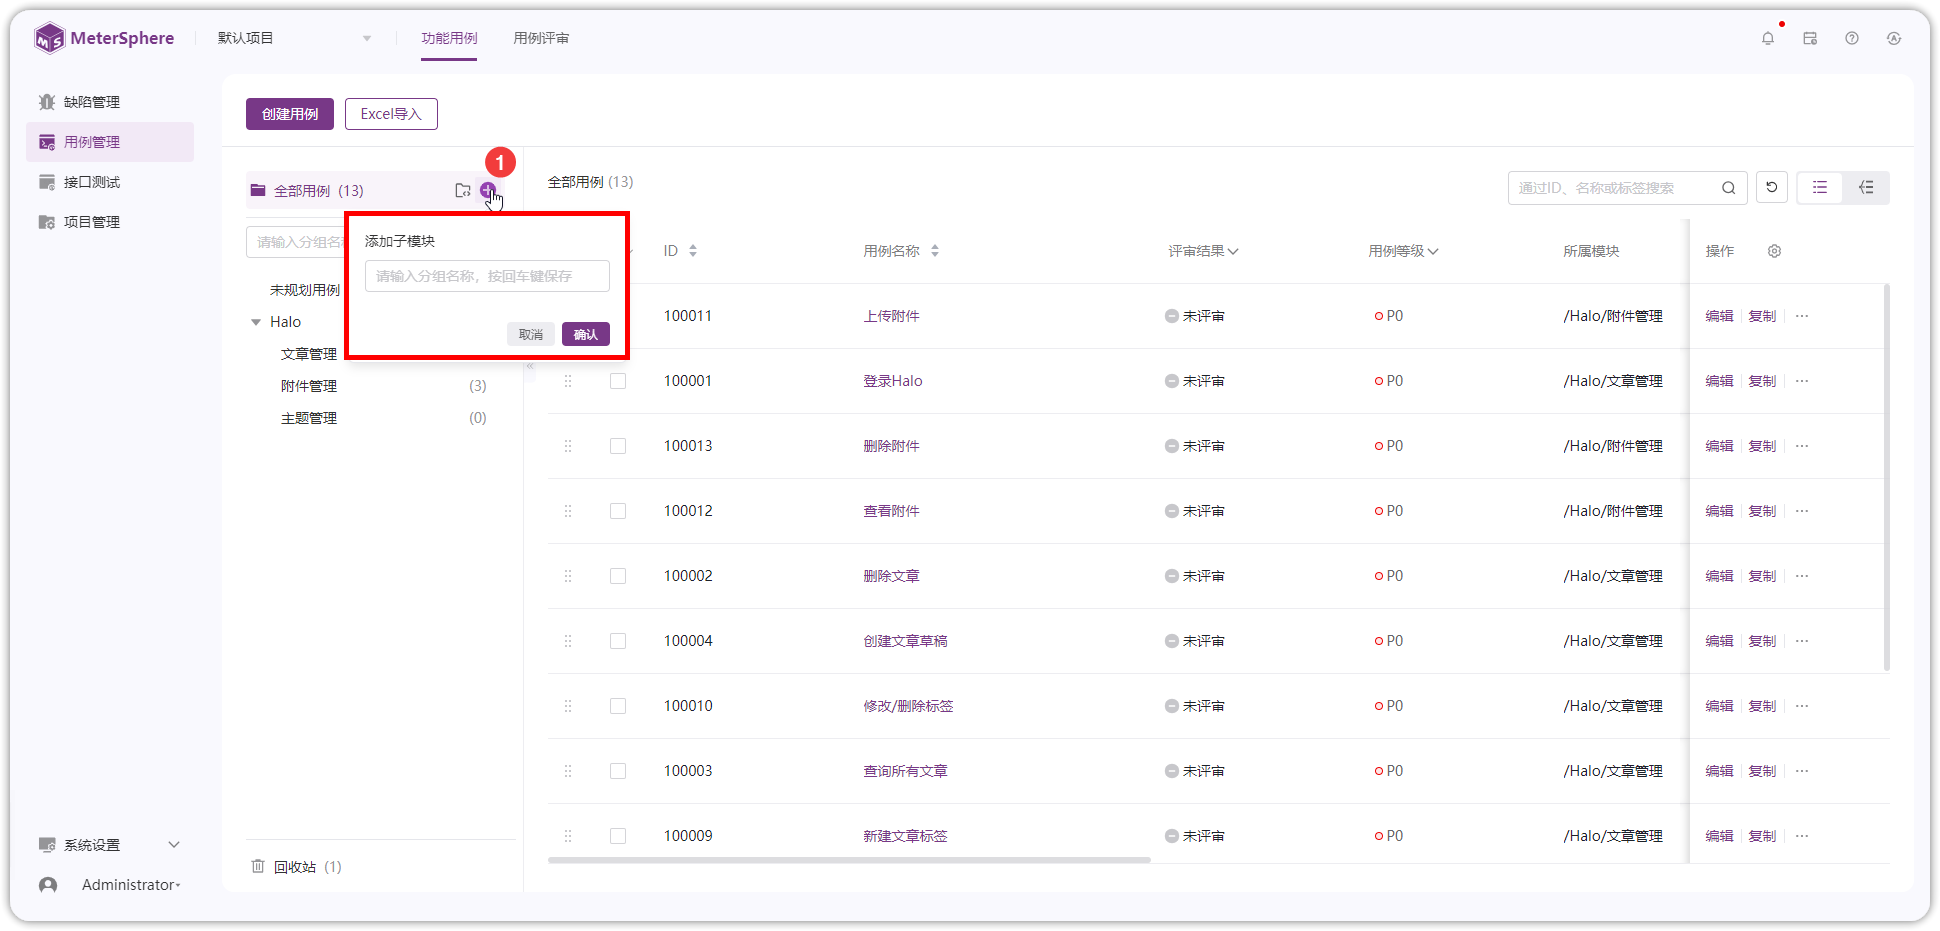
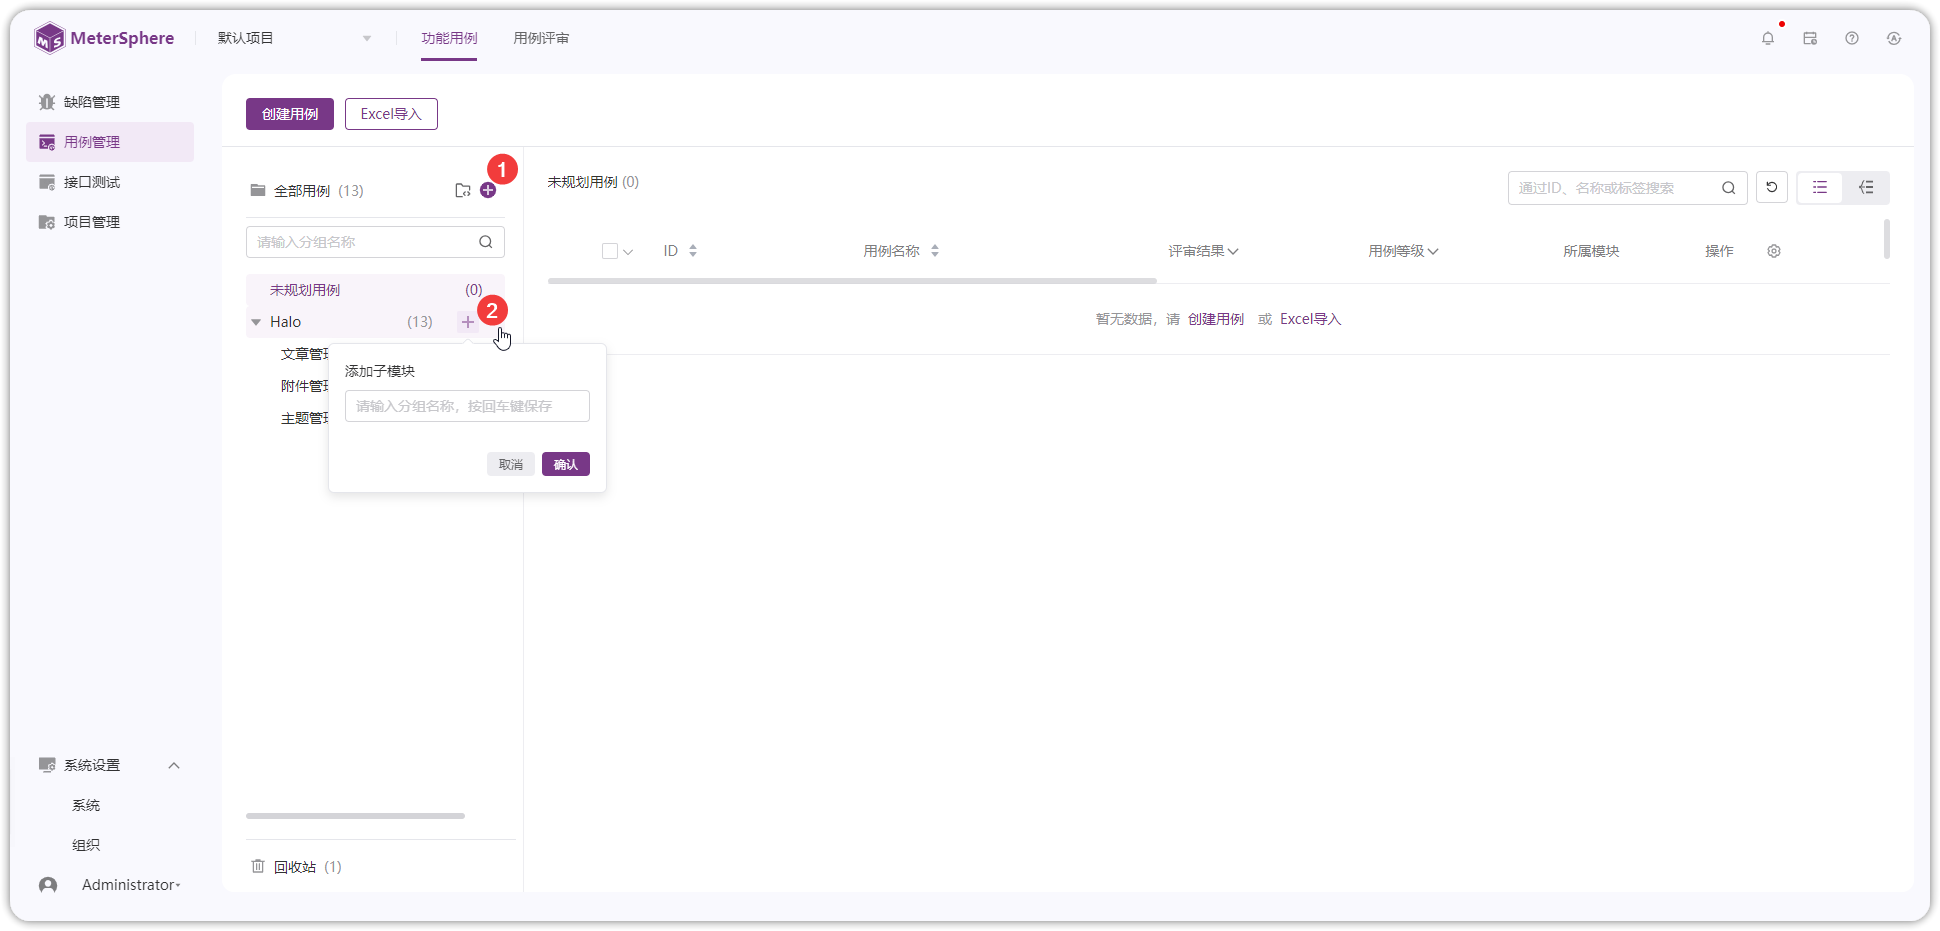
docs: 通用功能优化

diff --git a/docs/user_manual/general.md b/docs/user_manual/general.md
@@ -4,20 +4,23 @@ description: MeterSphere 一站式开源持续测试平台官方文档。MeterSp
 
 ## 1 切换项目
 !!! ms-abstract ""
-    MeterSphere 中的缺陷管理、用例管理、接口测试、UI测试、性能测试等资源均使用项目进行隔离，用户需要操作另一个项目中的资源时需要先进行项目切换。<br>
-    点击左上方的项目下拉菜单，菜单中列出了当前登录用户已被授权的项目列表，点击某个项目进行切换。
+    如下图，点击左上方的项目下拉菜单，下拉选择某个项目进行切换。
+
+!!! ms-abstract "说明"
+    系统中的缺陷管理、用例管理、接口测试等资源均使用项目进行隔离。
+
 ![!切换项目](../img/general/切换项目.png){ width="900px" }
 
 ## 2 模块树管理
-!!! ms-abstract ""
-    系统提供模块树管理，可根据不用功能创建不同的模块，并可根据各功能依赖关系设置子模块。该部分以【用例管理】下模块树相关操作举例。
 
-!!! ms-abstract "注意"
+!!! ms-abstract "说明"
     系统默认模块【未规划用例】不允许创建子模块。
 
 ### 2.1 添加子模块
+
 !!! ms-abstract ""
-    选中模块树列表【全部用例】，点击【+】号按钮在模块总目录下创建子模块。选中任意上级模块即可在该模块下创建子模块，模块树最多支持 8 层的树状结构。
+    - 序号1：在根目录下添加子模块。<br>
+    - 序号2：在当前目录下添加子模块。
 ![!添加子模块](../img/general/添加子模块.png){ width="900px" }
 
 ### 2.2 模块操作
@@ -25,11 +28,11 @@ description: MeterSphere 一站式开源持续测试平台官方文档。MeterSp
 ![!模块操作](../img/general/模块操作1.png){ width="900px" }
     
 !!! ms-abstract "操作说明"
-    - 【重命名】点击模块名称右侧【...】按钮，下拉可选择重命名模块名称。
+    - 【重命名】点击模块名称右侧【...】按钮，下拉点击【重命名】，输入新名称后点击确认。
     - 【删除】点击模块名称右侧【...】按钮，可删除该模块和其所有子模块。删除后，此节点下的所有资源都会被删除。
-    - 【收起/展开】操作，当模块下存在子模块时出现，可点击【收起/展开】该模块下的所有子模块。
-    - 【添加子模块】鼠标悬停在要操作的模块时出现，点击可以在该模块下添加子模块。
-    - 【模块搜索】在【全部用例】下方搜索框中输入模块名称可以按模块搜索。
+    - 【收起/展开】当模块下存在子模块时出现，可点击【收起/展开】该模块下的所有子模块。
+    - 【添加子模块】鼠标悬停在要操作的模块，出现【+】号后，点击添加子模块。
+    - 【模块搜索】在【全部用例】下方搜索框中输入模块名称进行模糊搜索。
 
 !!! ms-abstract ""
     模块树还支持鼠标拖拽操作，用户可以根据需求调整模块顺序及其层级关系。
@@ -40,138 +43,88 @@ description: MeterSphere 一站式开源持续测试平台官方文档。MeterSp
 
 ### 3.1 批量操作
 !!! ms-abstract ""
-    勾选复选框，在列表也下方选择【编辑】、【移动】、【复制】、【添加需求】、【关联需求】、【删除】等批量操作。
+    勾选复选框，如下图进行批量操作。
 ![!批量操作](../img/general/批量操作.png){ width="900px" }
 
 ### 3.2 全选操作
 !!! ms-abstract ""
-    点击列表表头行复选框右侧【V】下拉可选【全选当前页】和【全选所有页】两个全选操作。
+    点击列表表头行复选框右侧【V】，选择【全选当前页】或【全选所有页】进行批量操作。
 ![!全选操作](../img/general/全选操作.png){ width="900px" }
 
 ### 3.3 查询操作
-!!! ms-abstract ""
-    列表页右上方可按照【ID】、【名称】、【标签】快速搜索。
 ![!查询操作](../img/general/查询操作.png){ width="900px" }
 
 ### 3.4 表格设置
+!!! ms-abstract "说明"
+    表格设置跟随个人账号持久化。
+
 !!! ms-abstract ""
-    点击列表页表头行最后一列【设置】按钮，可自定义进行【模式设置】、【每页显示数量】、【显示子目录】、【表头设置】等设置。
+    - 模式设置：设置详情页展开方式。
+        - 抽屉：以抽屉形式打开新页面
+        - 新窗口：以新开网页打开新页面
+    - 每页显示数量：设置每页展示条数。
+    - 表头设置：
+        - 设置是否展示在列表。
+        - 调整列表字段展示顺序。
 ![!表格设置](../img/general/表格设置.png){ width="900px" }
 
 ### 3.5 表头快捷排序
 !!! ms-abstract ""
-    点击表头某字段上下排序按钮，可实现【增序】、【降序】、【默认】三种快捷排序功能。
 ![!表头快捷排序](../img/general/表头快捷排序.png){ width="900px" }
 
 ### 3.6 列表排序
 !!! ms-abstract ""
-    鼠标按住列表行左侧【∷】图标，可在列表行上下拖动实现自定义排序功能。
+    鼠标按住列表行左侧【∷】图标，在列表行上下拖动完成自定义排序。
 ![!列表排序](../img/general/列表排序.png){ width="900px" }
 
 ### 3.7 表头快捷筛选
 !!! ms-abstract ""
-    点击列表某表头字段右侧【V】下拉实现表头快捷筛选。
+    点击列表某表头字段右侧【V】下拉完成表头快捷筛选。
 ![!表头快捷筛选](../img/general/表头快捷筛选.png){ width="900px" }
 
 ### 3.8 列表内快捷修改
 !!! ms-abstract ""
-    鼠标在列表字段悬停可以显示【✎】按钮或者【下拉选项】，可实现列表内快捷修改。
+    鼠标在列表字段悬停可显示【✎】按钮或【下拉选项】，完成列表内快捷修改。
 ![!列表内快捷修改](../img/general/列表内快捷修改.png){ width="900px" }
 
 ### 3.9 调整列表宽度
 !!! ms-abstract ""
-    鼠标悬停在表头字段左侧空白处，出现【┤├】按钮，左右拖动可以调整列表宽度。
+    鼠标悬停在表头字段左侧空白处，出现【┤├】按钮，左右拖动调整列表宽度。
 ![!调整列表宽度](../img/general/调整列表宽度.png){ width="900px" }
 
 ## 4 回收站
 !!! ms-abstract ""
-    列表页删除用例后，用例将放入回收站，点击模块下方【回收站】按钮，可在回收站内进行数据恢复。
+    用例被删除后，系统默认放置回收站，在回收站内进行数据恢复和彻底删除。
+
 ![!回收站](../img/general/回收站1.png){ width="900px" }
 
 ![!回收站](../img/general/回收站2.png){ width="900px" }
 
-## 5 个人信息
+## 5 消息通知
 !!! ms-abstract ""
-    点击系统左下角【用户】选项，继续点击【个人信息】弹出【个人中心】页面进行个人信息的更新。
-![!个人信息](../img/general/个人信息1.png){ width="900px" }
-
-### 5.1 基本信息
-!!! ms-abstract ""
-    点击【基本信息】Tab，点击【更换头像】可以修改头像信息，点击【更新】可以修改【用户名称】、【邮箱】、【手机号码】信息。
-
-!!! ms-abstract "注意"
-    修改邮箱后，需要使用新的邮箱登录系统。    
-![!个人信息](../img/general/个人信息2.png){ width="900px" }
-
-### 5.2 密码设置
-!!! ms-abstract ""
-    点击【密码设置】Tab，可修改当前登录用户密码。
-
-!!! ms-abstract "注意"
-    修改密码后，需要使用新的密码登录系统。    
-![!密码设置](../img/general/密码设置.png){ width="900px" }
-
-### 5.3 APIKEY 管理
-!!! ms-abstract ""
-    点击【APIKEY】Tab，点击【新增】自动创建【APIKEY】，可以【查看】、【复制】APIKEY。
-
-![!APIKEY](../img/general/APIKEY1.png){ width="900px" }
-
-!!! ms-abstract ""
-    点击【设置】可删除和设置 APIKEY 有效期，点击【开关】按钮可【开启/关闭】APIKEY。    
-![!APIKEY](../img/general/APIKEY2.png){ width="900px" }
-
-![!APIKEY](../img/general/APIKEY3.png){ width="900px" }
-
-### 5.4 本地执行
-!!! ms-abstract ""
-    点击【本地执行】Tab，输入本地接口执行程序 URL，回车检测，可配置是否【优先本地执行】。
-
-!!! ms-abstract "说明"
-    本地调试机制是专为开发调试而设计的，只需要本地计算机上启动（Local Task-Runnner）【添加本地部署task_runner和配置代理的跳转链接】并将请求导向本地代理，而不是传输到后端服务器。这一机制解决了本地网络与部署服务器网络之间的互通问题。
-
-    同时开发使用 MeterSphere 进行接口调试可以方便接口从设计之初就在平台上沉淀和管理，也能形成接口设计到接口测试的流程闭环，管理者可以在平台上追溯接口的整个生命周期。
-
-![!APIKEY](../img/general/本地执行.png){ width="900px" }
-
-### 5.5 三方平台账号
-!!! ms-abstract ""
-    在个人信息处可以绑定第三方平台的个人账号，可以在【个人】创建和修改缺陷信息。
-![!三方平台账号](../img/general/三方平台账号.png){ width="900px" }
-
-!!! ms-abstract "注意"
-
-    - **禅道账号**：禅道账号具有 API 相应的权限，请按照参考页面勾选上对应权限 `参考页面: 【组织】-【权限】-【分组】-【权限维护】-【API开发】`；还需开启超级 Model 配置项，禅道配置文件中 `$config->features-apiGetModel = true ` 配置文件参考路径：`/opt/zbox/app/zentao/config/my.php`。
-    - **JIRA 认证方式**：私有化部署选择 Basic Auth 填写账号密码, 选择 Bearer Token 填写 Token；SaaS 版本只能选择 Basic Auth，填写【账号+令牌】【账户设置-安全-创建 API 令牌】。
-
-## 6 消息通知
-!!! ms-abstract ""
-    点击右上角【消息通知】图标，可以查看近 3 个月内站内消息。
+    点击右上角【消息通知】图标，查看近 3 个月内的站内消息，可标记状态为【已读】。
 ![!消息通知](../img/general/消息通知.png){ width="900px" }
 
-## 7 任务中心（有bug待细化）
+## 6 任务中心（有bug待细化）
 
-### 7.1 实时任务
+### 6.1 实时任务
 !!! ms-abstract ""
-    点击右上角【消息通知】图标，可以查看近 3 个月内站内消息。
+    XXX
 ![!消息通知](../img/general/消息通知.png){ width="900px" }
 
-### 7.2 实时任务
+### 6.2 实时任务
 !!! ms-abstract ""
-    点击右上角【消息通知】图标，可以查看近 3 个月内站内消息。
+    XXX
 ![!消息通知](../img/general/消息通知.png){ width="900px" }
 
-## 8 帮助中心
+## 7 帮助中心
 !!! ms-abstract ""
-    点击右上角【帮助中心】图标，可以查看【帮助文档】、【版本信息】。
 ![!帮助中心](../img/general/帮助中心.png){ width="900px" }
 
-## 9 切换语言
+## 8 切换语言
 !!! ms-abstract "" 
-    点击页面右上方的语言下拉菜单，进行指定语言的切换。
 ![!切换语言](../img/general/切换语言.png){ width="900px" }
 
-## 10 退出系统
+## 9 退出系统
 !!! ms-abstract "" 
-    点击系统左下角的【用户】处，点击【退出系统】即可退出。
 ![!退出系统](../img/general/退出系统.png){ width="900px" }
